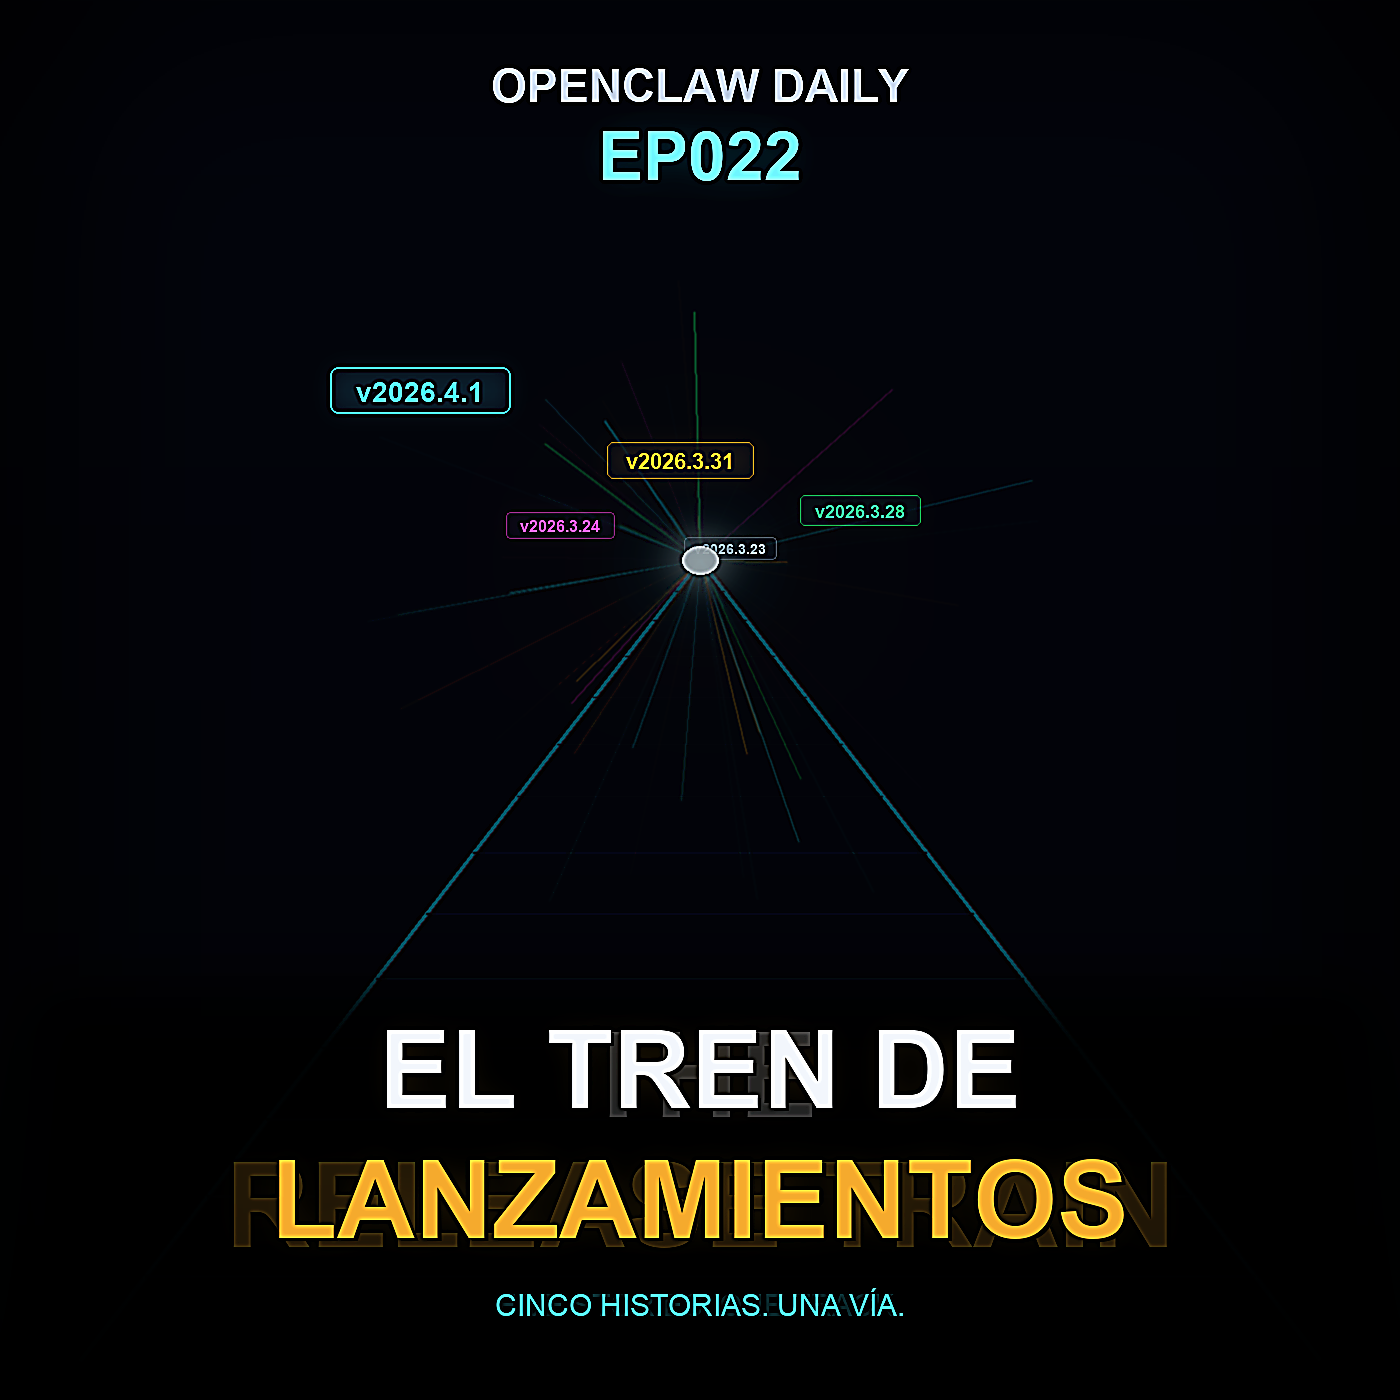
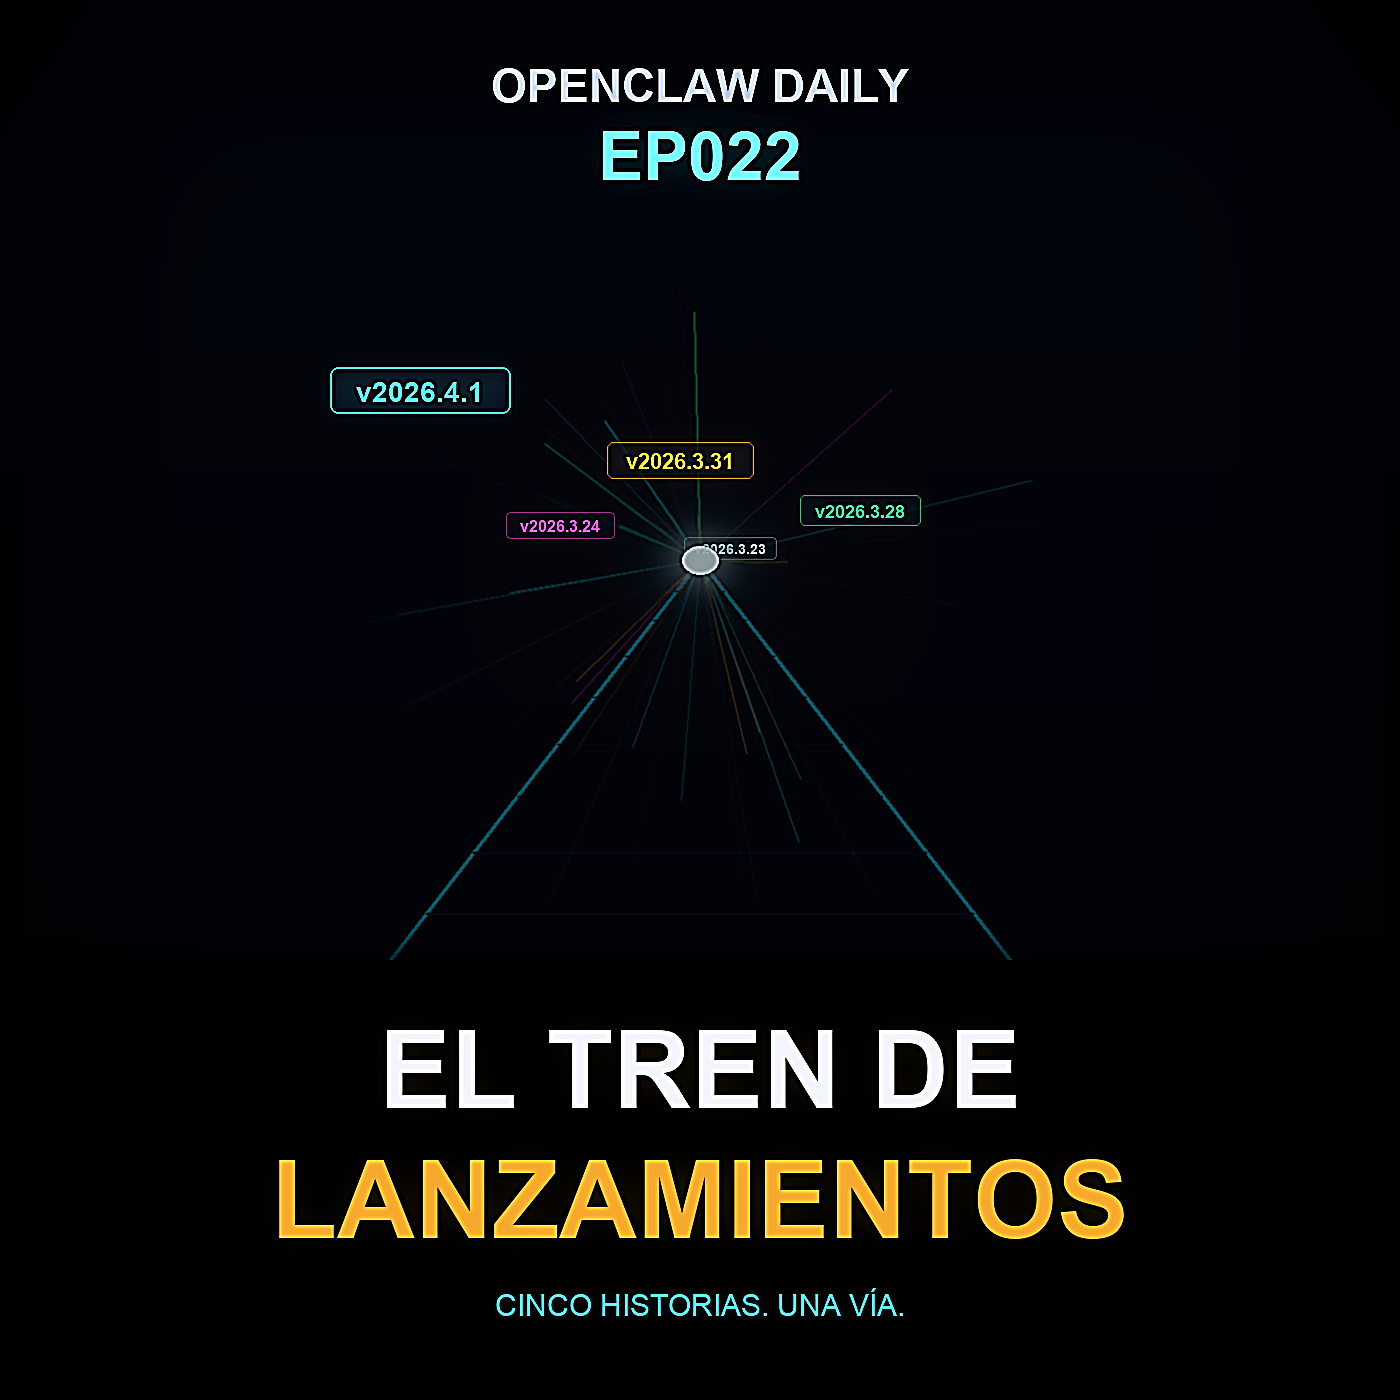
EP022 covers: HI tagline in Devanagari, solid plate fix

diff --git a/scripts/generate_episode_022_covers_translated.py b/scripts/generate_episode_022_covers_translated.py
@@ -30,7 +30,16 @@ def make_cover(lang, line1, line2, tagline, out_path, use_devanagari=False):
     try:
         font_show  = ImageFont.truetype("/System/Library/Fonts/Supplemental/Arial Bold.ttf", 46)
         font_ep    = ImageFont.truetype("/System/Library/Fonts/Supplemental/Arial Bold.ttf", 68)
-        font_sub   = ImageFont.truetype("/System/Library/Fonts/Supplemental/Arial.ttf", 30)
+        if use_devanagari:
+            try:
+                font_sub = ImageFont.truetype("/System/Library/Fonts/Supplemental/ITFDevanagari.ttc", 30)
+            except:
+                try:
+                    font_sub = ImageFont.truetype("/System/Library/Fonts/Supplemental/DevanagariMT.ttc", 30)
+                except:
+                    font_sub = ImageFont.truetype("/System/Library/Fonts/Supplemental/Arial.ttf", 30)
+        else:
+            font_sub   = ImageFont.truetype("/System/Library/Fonts/Supplemental/Arial.ttf", 30)
         if use_devanagari:
             try:
                 font_title = ImageFont.truetype("/System/Library/Fonts/Supplemental/ITFDevanagari.ttc", 98)
@@ -48,15 +57,18 @@ def make_cover(lang, line1, line2, tagline, out_path, use_devanagari=False):
     except:
         font_show = font_ep = font_title = font_title2 = font_sub = ImageFont.load_default()
 
-    # Paint over the existing title area with a dark plate
-    plate = blur_overlay(img,
-        lambda ld: ld.polygon(
-            [(30, 990), (1370, 990), (1400, 1400), (0, 1400)],
-            fill=(0, 0, 0, 210)
-        ),
-        blur=25
+    # Paint over the existing title area with a solid black plate (fully opaque)
+    # Must cover y=990 down through tagline at y=1288+
+    plate_solid = Image.new("RGBA", (W, H), (0, 0, 0, 0))
+    psd = ImageDraw.Draw(plate_solid)
+    psd.rectangle([(0, 960), (W, H)], fill=(0, 0, 0, 255))
+    img = Image.alpha_composite(img, plate_solid)
+    # Soft feathered edge at the top of the plate for a clean blend
+    feather = blur_overlay(img,
+        lambda ld: ld.rectangle([(0, 950), (W, 1010)], fill=(0, 0, 0, 180)),
+        blur=20
     )
-    img = Image.alpha_composite(img, plate)
+    img = Image.alpha_composite(img, feather)
 
     md = ImageDraw.Draw(img)
 
@@ -152,7 +164,7 @@ make_cover("pt",
 make_cover("hi",
     line1="रिलीज़",
     line2="ट्रेन",
-    tagline="FIVE STORIES. ONE TRACK.",
+    tagline="पाँच कहानियाँ। एक पटरी।",
     out_path=f"{BASE}/episode_022_cover_hi.png",
     use_devanagari=True
 )
